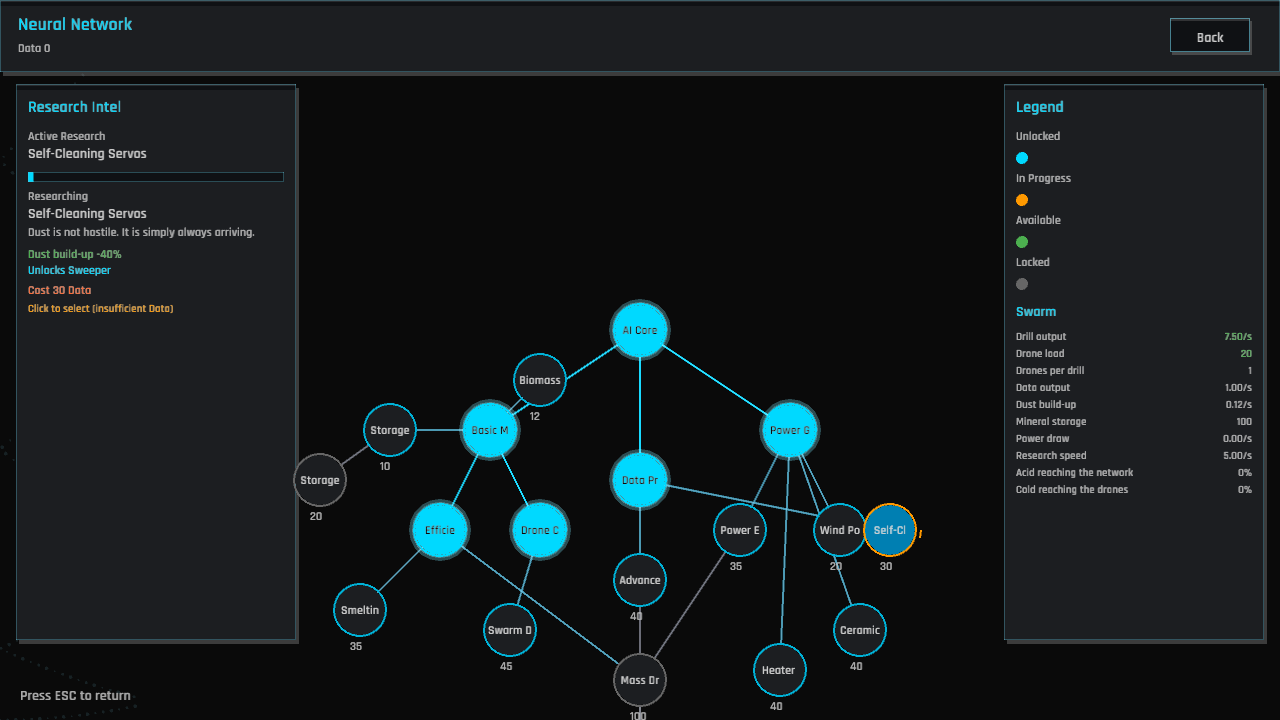
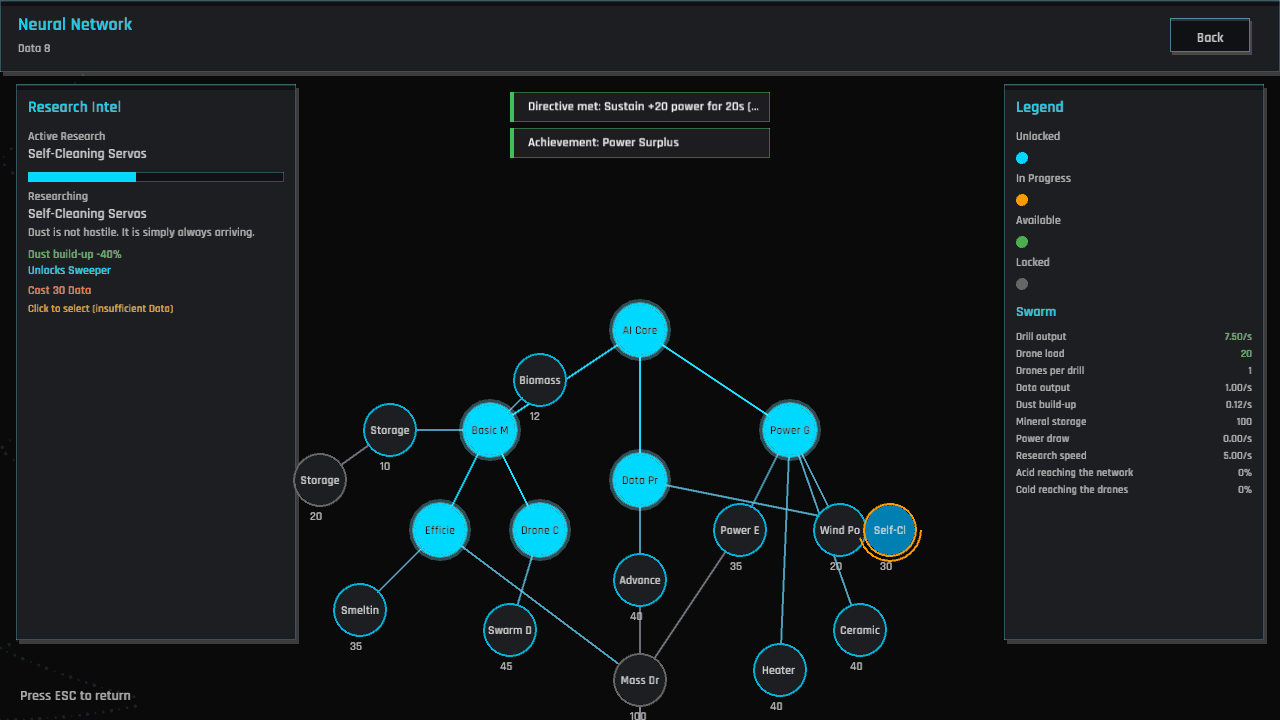
Anything the swarm has to say now follows the player between screens
Toasts were drawn by the planetary view and nowhere else, so a directive
completing while the player read the research tree was never seen - and
directives completed in silence anyway, paying out and rotating with no more
evidence than the panel quietly saying something different. A met directive
now names itself and its reward; one that runs out of time says so too.

The stack draws on the research, ship and map screens, anchored where each of
those has room: right-aligning them the way the planetary view does puts them
straight through a panel, because a menu's panels run the full height of the
screen. The first capture showed exactly that, over the legend.

The solar map also advances the simulation now. It is a view of a running
system, not a pause button.

Changed region(s): [[0.4062, 0.1222, 0.5938, 0.2139], [0.0312, 0.2139, 0.125, 0.275], [0.6875, 0.7639, 0.7188, 0.7944]]

diff --git a/src/state/campaign.rs b/src/state/campaign.rs
@@ -309,6 +309,27 @@ impl Campaign {
             } else {
                 0.0
             };
+            // A directive used to pay out and rotate without a word, so the
+            // only evidence was the panel quietly saying something else.
+            let announcement = if self.directive.completed {
+                Some(format!(
+                    "Directive met: {} (+{:.0} Data)",
+                    self.directive.description, reward
+                ))
+            } else if self.directive.duration > 0.0 {
+                Some(format!("Directive lapsed: {}", self.directive.description))
+            } else {
+                None
+            };
+            let completed = self.directive.completed;
+            if let Some(message) = announcement {
+                let planet = self.current_mut();
+                if completed {
+                    planet.notifications.success(message);
+                } else {
+                    planet.notifications.warning(message);
+                }
+            }
             if reward > 0.0 {
                 self.current_mut().resources.data += reward;
             }
@@ -1071,5 +1092,37 @@ mod tests {
         assert_eq!(campaign.current().resources.data, before + 25.0);
         assert!(!campaign.directive.completed);
         assert_eq!(campaign.directive_tier, 1);
+    }
+
+    #[test]
+    fn a_directive_that_is_met_says_so_instead_of_rotating_in_silence() {
+        let mut campaign = campaign();
+        campaign.directive.completed = true;
+        campaign.directive.reward_data = 25.0;
+        let goal = campaign.directive.description.clone();
+
+        campaign.update_directive(0.1);
+
+        let announced = campaign.current().notifications.get_notifications();
+        assert_eq!(announced.len(), 1, "the directive rotated in silence");
+        assert!(
+            announced[0].message.contains(&goal),
+            "the toast did not say which directive: {}",
+            announced[0].message
+        );
+        assert!(announced[0].message.contains("25"), "no reward mentioned");
+    }
+
+    #[test]
+    fn a_directive_that_runs_out_of_time_is_reported_as_a_loss() {
+        let mut campaign = campaign();
+        let goal = campaign.directive.description.clone();
+        // Push it past its window without ever meeting it.
+        campaign.update_directive(DIRECTIVE_ROTATION_SECONDS + 1.0);
+
+        let announced = campaign.current().notifications.get_notifications();
+        assert_eq!(announced.len(), 1);
+        assert!(announced[0].message.contains("lapsed"));
+        assert!(announced[0].message.contains(&goal));
     }
 }

diff --git a/src/main.rs b/src/main.rs
@@ -240,6 +240,8 @@ impl Game {
                 CampaignCompleteAction::None => {}
             },
             GamePhase::Interplanetary => {
+                // The map is a view of a running system, not a pause button.
+                self.advance_simulation();
                 let stockpiles: [Option<f32>; state::PLANET_COUNT] =
                     std::array::from_fn(|index| self.campaign.stockpile(index));
                 match render_interplanetary_view(
@@ -299,6 +301,22 @@ impl Game {
                     self.phase = GamePhase::Playing;
                 }
             }
+        }
+
+        // Toasts follow the player between screens. Anything that landed
+        // while they were reading the tree or the map used to be missed
+        // entirely, which is exactly when a finished directive matters.
+        match self.phase {
+            // The ship screen fills the middle, so its toasts go in the corner.
+            GamePhase::SeedShip => {
+                let anchor = screens::menu_anchor_low(screen_height());
+                screens::draw_toasts(self.campaign.current(), anchor);
+            }
+            GamePhase::Research | GamePhase::Interplanetary => {
+                let anchor = screens::menu_anchor(screen_width());
+                screens::draw_toasts(self.campaign.current(), anchor);
+            }
+            _ => {}
         }
 
         self.debug_overlay.draw(&[]);
@@ -497,6 +515,10 @@ impl Game {
                     .push("drone_capacity".to_string());
                 self.research_state.current_research = Some("self_cleaning_servos".to_string());
                 self.sync_research_to_planet();
+                // Meet the standing directive for real, so the toast on this
+                // screen is one the game actually raised.
+                self.campaign.directive.completed = true;
+                self.campaign.update_directive(0.1);
             }
             "logistics" => {
                 self.phase = GamePhase::Playing;

diff --git a/src/screens/toasts.rs b/src/screens/toasts.rs
@@ -1,0 +1,58 @@
+//! Toasts, anywhere.
+//!
+//! The notification stack was drawn by the planetary view alone, so anything
+//! that landed while the player was reading the research tree or the solar map
+//! was never seen at all — which is exactly when a directive completing or a
+//! world finishing a stage matters most.
+
+use crate::state::PlanetState;
+use macroquad::prelude::*;
+use macroquad_toolkit::notifications::{draw_notification, NotificationRenderConfig};
+
+/// Where a screen wants its toasts.
+#[derive(Debug, Clone, Copy)]
+pub struct ToastAnchor {
+    pub x: f32,
+    pub y: f32,
+}
+
+fn config() -> NotificationRenderConfig {
+    NotificationRenderConfig {
+        width: 260.0,
+        row_height: 30.0,
+        spacing: 6.0,
+        font_size: 13.0,
+        ..NotificationRenderConfig::default()
+    }
+}
+
+/// Draw the stack from `anchor` downwards.
+pub fn draw_toasts(state: &PlanetState, anchor: ToastAnchor) {
+    let config = config();
+    let mut y = anchor.y;
+    for notification in state.notifications.get_notifications() {
+        draw_notification(notification, anchor.x, y, &config);
+        y += config.row_height + config.spacing;
+    }
+}
+
+/// Where a full-screen menu with side panels has room: across the top of the
+/// middle, under the header.
+///
+/// Right-aligning them the way the planetary view does puts them straight on
+/// top of a panel, because a menu's panels run the full height of the screen.
+pub fn menu_anchor(screen_w: f32) -> ToastAnchor {
+    ToastAnchor {
+        x: ((screen_w - config().width) * 0.5).max(24.0),
+        y: 92.0,
+    }
+}
+
+/// Where a menu whose content is centred has room instead: down in the corner,
+/// above the ESC hint.
+pub fn menu_anchor_low(screen_h: f32) -> ToastAnchor {
+    ToastAnchor {
+        x: 24.0,
+        y: (screen_h - 150.0).max(92.0),
+    }
+}

diff --git a/src/screens/planetary_view/upkeep_render.rs b/src/screens/planetary_view/upkeep_render.rs
@@ -6,7 +6,6 @@ use crate::state::PlanetState;
 use crate::ui::Colors;
 use macroquad::prelude::*;
 use macroquad_toolkit::colors::with_alpha;
-use macroquad_toolkit::notifications::{draw_notification, NotificationRenderConfig};
 
 use super::metrics::{grid_to_screen, HudMetrics};
 
@@ -178,19 +177,11 @@ fn draw_coverage_area(center: GridPos, radius: i32, emphasised: bool, metrics: H
 /// already a panel, so the placement is done by hand and only the drawing is
 /// borrowed.
 pub(super) fn draw_notifications(state: &PlanetState, metrics: HudMetrics, screen_w: f32) {
-    let config = NotificationRenderConfig {
-        width: 260.0,
-        row_height: 30.0,
-        spacing: 6.0,
-        font_size: 13.0,
-        ..NotificationRenderConfig::default()
+    // Clear of the right-hand panel stack, which the full-screen menus do not
+    // have and so anchor differently.
+    let anchor = crate::screens::ToastAnchor {
+        x: (screen_w - metrics.right_panel_width - 260.0 - 24.0).max(metrics.base_offset_x() + 8.0),
+        y: metrics.top_bar_height + 96.0,
     };
-    let x = (screen_w - metrics.right_panel_width - config.width - 24.0)
-        .max(metrics.base_offset_x() + 8.0);
-    let mut y = metrics.top_bar_height + 96.0;
-
-    for notification in state.notifications.get_notifications() {
-        draw_notification(notification, x, y, &config);
-        y += config.row_height + config.spacing;
-    }
+    crate::screens::draw_toasts(state, anchor);
 }

diff --git a/src/screens.rs b/src/screens.rs
@@ -10,6 +10,7 @@ mod planetary_view;
 mod research_view;
 mod seed_ship_view;
 mod settings_menu;
+mod toasts;
 
 pub use campaign_complete_view::*;
 pub use interplanetary_view::*;
@@ -19,3 +20,4 @@ pub use planetary_view::*;
 pub use research_view::*;
 pub use seed_ship_view::*;
 pub use settings_menu::*;
+pub use toasts::*;

diff --git a/TODO.md b/TODO.md
@@ -37,7 +37,7 @@ A network tile passes `conduit_capacity` drones at full speed; past that they sh
 
 `state::Campaign` owns all five worlds, the current index, and the directive; travel keeps every planet exactly as it was left, and the save carries the lot.
 
-- Left-behind worlds keep working: they run the same simulation in coarse one-second steps without visuals, and the solar map lists what each has stockpiled. One seam remains — nothing runs while the map, the menu, or the launch sequence is open, so time only passes on the surface.
+- Left-behind worlds keep working: they run the same simulation in coarse one-second steps without visuals, and the solar map lists what each has stockpiled. The map is now a view of a running system rather than a pause button. Time still stops on the main menu and during a launch, both deliberately.
 - Turn Mass Drivers into gameplay: a building, export schedules, transit time, and receiving landing pads. The tech now gates Seed Ship launches, so it is no longer a flag that does nothing, but nothing is exported over it yet.
 - Research belongs to the campaign, and every world adopts it — including one colonized after the fact. Each `PlanetState` still keeps a copy, because a world needs its own answer (it can refuse a building the swarm has researched), but the campaign is the only writer. What is *not* shared yet: `unlocked_buildings` is rebuilt per world from that research and never pruned, so a building unlocked and then somehow un-researched would stay unlocked.
 - Worlds are now defined in `assets/planets.json` (size, terrain weights, banned buildings, arrival line) and the map reads the same file, so identity lives in one place. What is still uniform: every world generates from one flat distribution with a cleared centre, so none of them have landmarks, regions, or a shape worth reading.
@@ -108,10 +108,10 @@ The tutorial is five steps in `assets/tutorial.json`, each with a goal the simul
 - Nothing points at the *map*. A step that wants a conduit run drawn between two tiles can highlight the Conduit card but not the tiles.
 Toasts (the toolkit's `NotificationManager`) announce achievements, finished research, newly available buildings, and each Seed Ship stage. They fade in real time, so they keep fading while the world is paused.
 
-- Directives still complete silently, and the tutorial advances without saying so — both predate the toast stack and should use it.
+- A directive that is met says so and names its reward; one that runs out of time says that too. (The tutorial already toasted each step.)
 - There is no history: a toast missed while the player was on the research screen is gone. A scrollable log would also give the "indifferent optimizer" voice somewhere to accumulate.
 - The right-hand panel stack is full at 720p — a fifth panel overflows the four existing ones, which is why the Seed Ship got its own screen. Any new readout needs the stack's internal layouts made height-aware first.
-- Toasts are only drawn on the planetary view, so anything that fires while the research, ship or map screen is open is missed entirely.
+- Toasts follow the player onto the research, ship and map screens, anchored where each of those screens actually has room. The main menu and the launch sequence still do not draw them, which is deliberate — neither is looking at a world.
 Settings load at startup, apply as they are changed, and are written to disk, so text scale, fullscreen and the FPS overlay survive a restart. The autosave cadence comes from `autosave_interval` rather than a constant.
 
 - The audio sliders still drive nothing; that waits on the audio system (see Audio).
